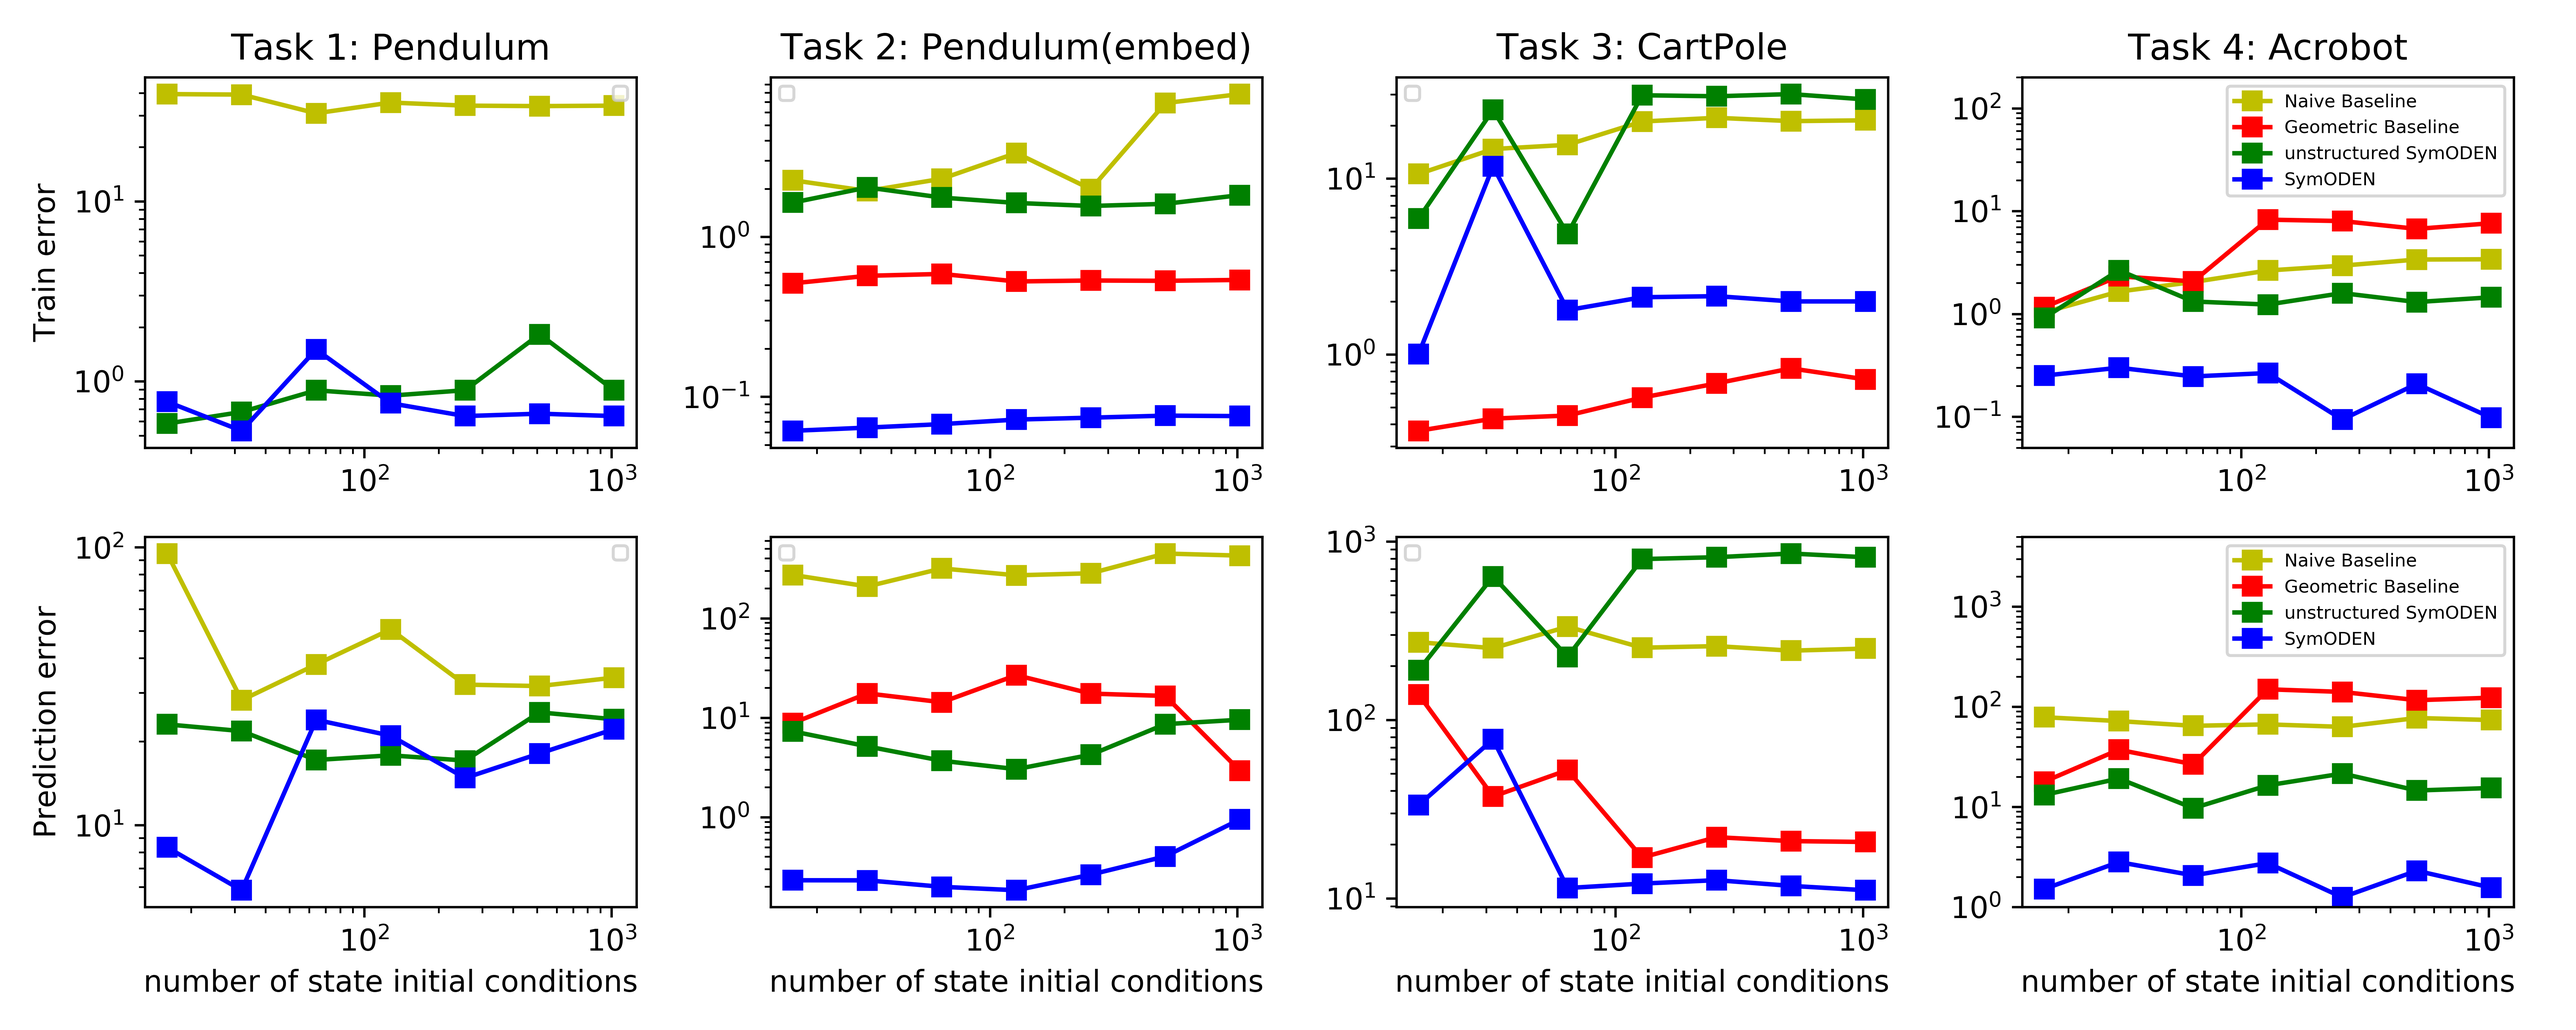
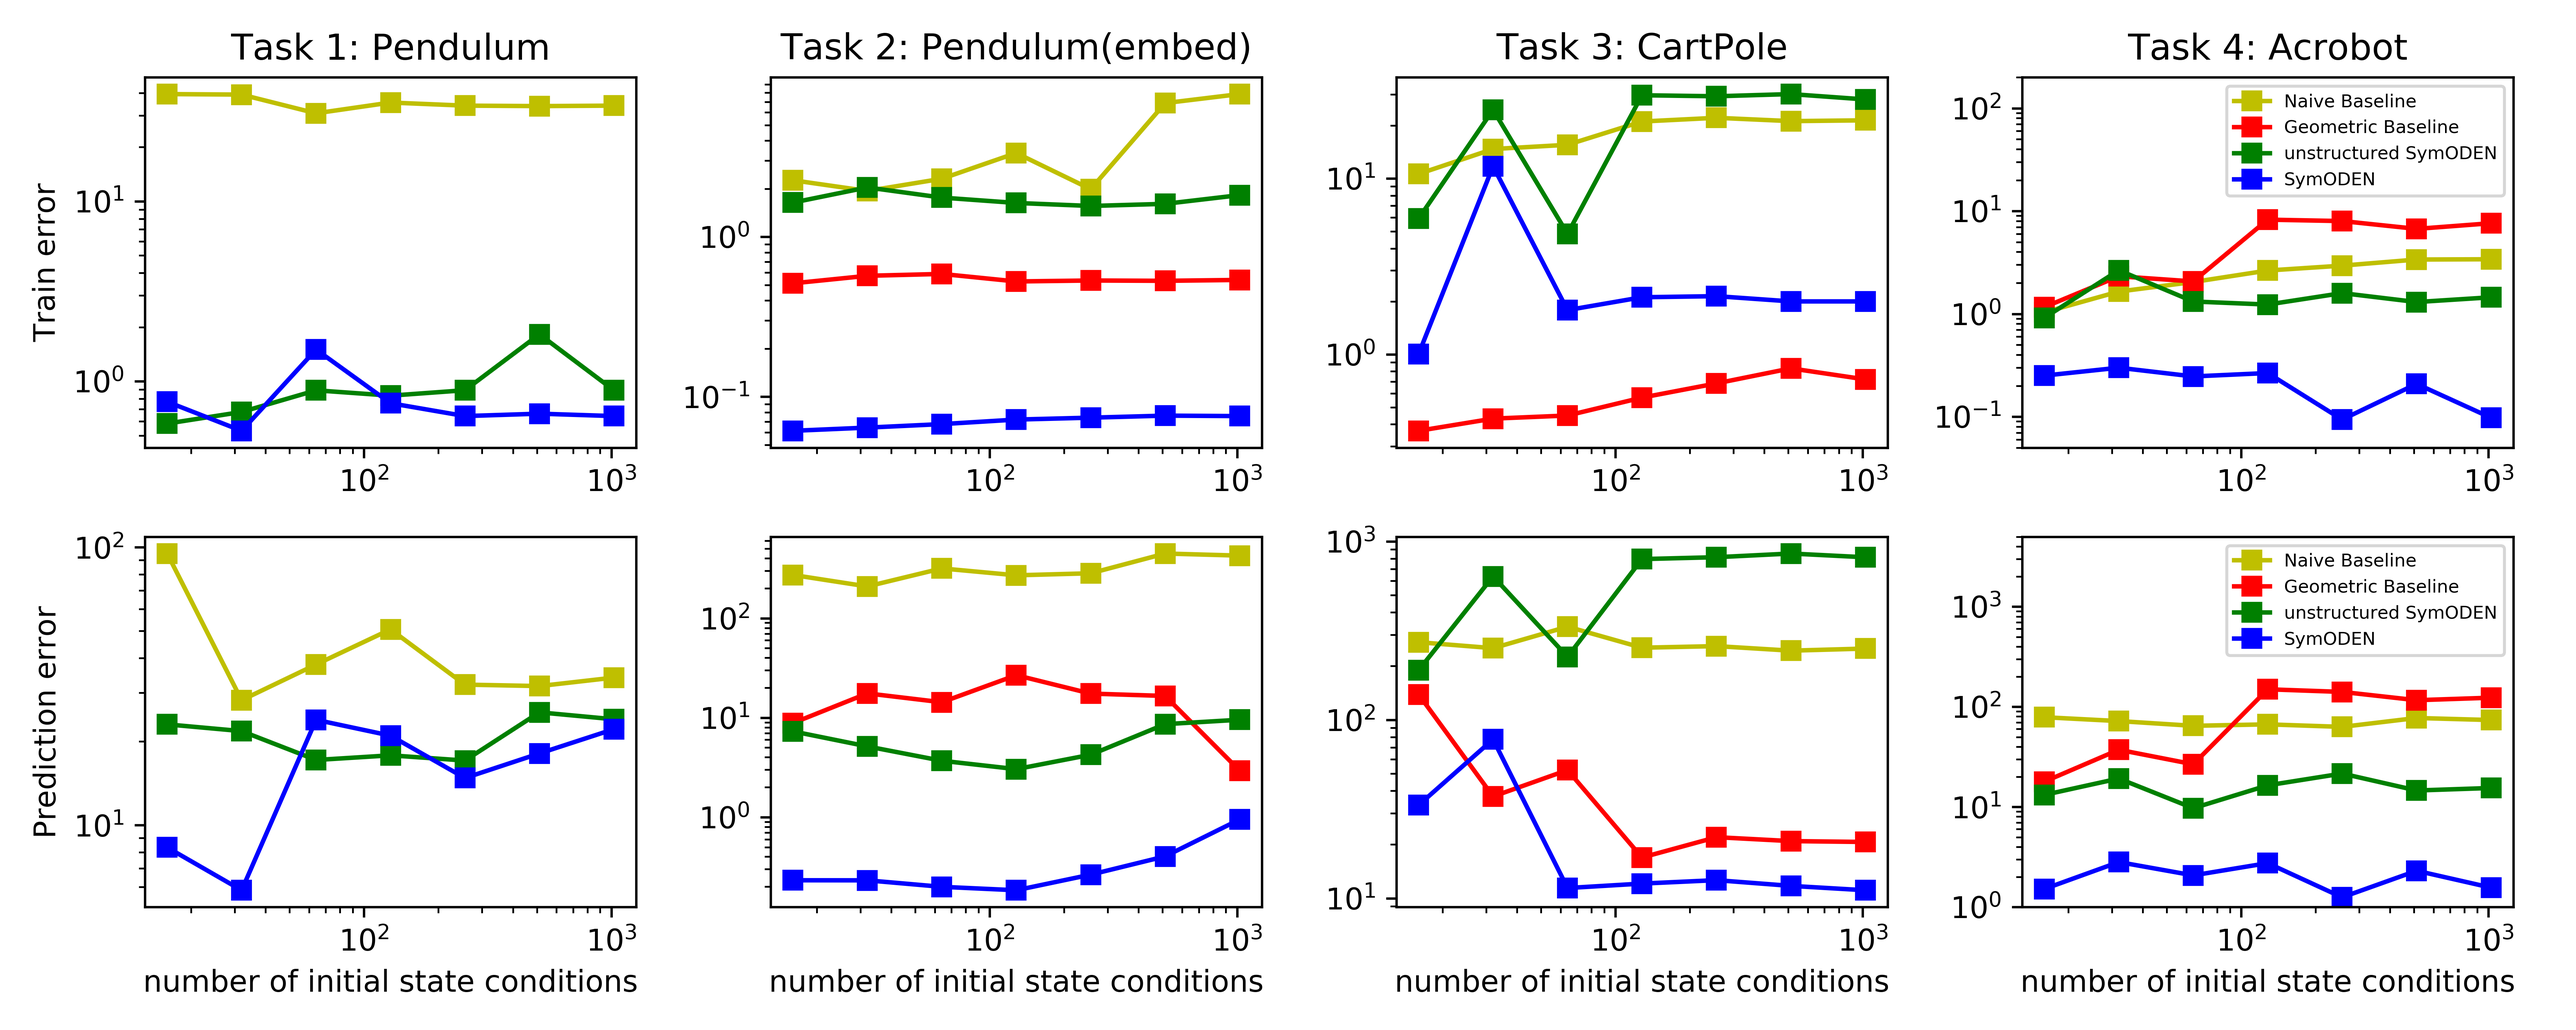
fix typos and add videos for acrobot-fa and cartpole-fa, add ablation study plot

diff --git a/analyze-train-pred-loss.py b/analyze-train-pred-loss.py
@@ -18,7 +18,7 @@ import matplotlib.pyplot as plt
 
 #%%
 DPI = 600
-FORMAT = 'png'
+FORMAT = 'pdf'
 LINE_SEGMENTS = 10
 ARROW_SCALE = 40
 ARROW_WIDTH = 6e-3
@@ -85,7 +85,7 @@ plt.yscale('log')
 # plt.xlabel('number of state initial condition')
 plt.ylabel('Train error')
 plt.title('Task 1: Pendulum')
-plt.legend(fontsize=6)
+# plt.legend(fontsize=6)
 
 plt.subplot(2, 4, 5)
 plt.plot(x_axis, pred_force_base, 'ys-')
@@ -93,9 +93,9 @@ plt.plot(x_axis, pred_force_symoden, 'gs-')
 plt.plot(x_axis, pred_force_symoden_struct, 'bs-')
 plt.xscale('log')
 plt.yscale('log')
-plt.xlabel('number of state initial conditions')
+plt.xlabel('number of initial state conditions')
 plt.ylabel('Prediction error')
-plt.legend(fontsize=6)
+# plt.legend(fontsize=6)
 
 plt.subplot(2, 4, 2)
 plt.plot(x_axis, embed_naive, 'ys-')
@@ -107,7 +107,7 @@ plt.yscale('log')
 # plt.xlabel('number of training trajectories')
 # plt.ylabel('Train loss')
 plt.title('Task 2: Pendulum(embed)')
-plt.legend(fontsize=6)
+# plt.legend(fontsize=6)
 
 plt.subplot(2, 4, 6)
 plt.plot(x_axis, pred_embed_naive, 'ys-')
@@ -116,9 +116,9 @@ plt.plot(x_axis, pred_embed_symoden, 'gs-')
 plt.plot(x_axis, pred_embed_symoden_struct, 'bs-')
 plt.xscale('log')
 plt.yscale('log')
-plt.xlabel('number of state initial conditions')
+plt.xlabel('number of initial state conditions')
 # plt.ylabel('Prediction loss')
-plt.legend(fontsize=6)
+# plt.legend(fontsize=6)
 
 plt.subplot(2, 4, 3)
 plt.plot(x_axis, cart_naive, 'ys-')
@@ -130,7 +130,7 @@ plt.yscale('log')
 # plt.xlabel('number of training trajectories')
 # plt.ylabel('Train loss')
 plt.title('Task 3: CartPole')
-plt.legend(fontsize=6)
+# plt.legend(fontsize=6)
 
 plt.subplot(2, 4, 7)
 plt.plot(x_axis, pred_cart_naive, 'ys-')
@@ -139,14 +139,14 @@ plt.plot(x_axis, pred_cart_symoden, 'gs-')
 plt.plot(x_axis, pred_cart_symoden_struct, 'bs-')
 plt.xscale('log')
 plt.yscale('log')
-plt.xlabel('number of state initial conditions')
+plt.xlabel('number of initial state conditions')
 # plt.ylabel('Prediction loss')
-plt.legend(fontsize=6)
+# plt.legend(fontsize=6)
 
 plt.subplot(2, 4, 4)
 plt.plot(x_axis, double_naive, 'ys-', label='Naive Baseline')
 plt.plot(x_axis, double_base, 'rs-', label='Geometric Baseline')
-plt.plot(x_axis, double_symoden, 'gs-', label='unstructured SymODEN')
+plt.plot(x_axis, double_symoden, 'gs-', label='Unstructured SymODEN')
 plt.plot(x_axis, double_symoden_struct, 'bs-', label='SymODEN')
 plt.xscale('log')
 plt.yscale('log')
@@ -159,12 +159,12 @@ plt.legend(fontsize=6)
 plt.subplot(2, 4, 8)
 plt.plot(x_axis, pred_double_naive, 'ys-', label='Naive Baseline')
 plt.plot(x_axis, pred_double_base, 'rs-', label='Geometric Baseline')
-plt.plot(x_axis, pred_double_symoden, 'gs-', label='unstructured SymODEN')
+plt.plot(x_axis, pred_double_symoden, 'gs-', label='Unstructured SymODEN')
 plt.plot(x_axis, pred_double_symoden_struct, 'bs-', label='SymODEN')
 plt.xscale('log')
 plt.yscale('log')
 plt.ylim([1, 5000])
-plt.xlabel('number of state initial conditions')
+plt.xlabel('number of initial state conditions')
 # plt.ylabel('Prediction loss')
 plt.legend(fontsize=6)
 

diff --git a/analyze-ablation-hnn.py b/analyze-ablation-hnn.py
@@ -30,7 +30,7 @@ device = torch.device('cuda:' + str(args.gpu) if torch.cuda.is_available() else 
 
 #%%
 DPI = 600
-FORMAT = 'png'
+FORMAT = 'pdf'
 LINE_SEGMENTS = 10
 ARROW_SCALE = 40
 ARROW_WIDTH = 6e-3
@@ -280,7 +280,7 @@ plt.plot(t_eval, ((true_x[:,0:2]-hnn_rad_x)**2).mean(-1), 'c--', linewidth=2)
 plt.ylim(-0.5, 10)
 plt.xlabel('t')
 # plt.ylabel('MSE')
-plt.title('MSE w/ HNN training data')
+plt.title('MSE w/ annulus training data')
 
 plt.subplot(1, 4, 2)
 plt.plot(t_eval, E_true, 'k', label='Ground Truth', linewidth=2)
@@ -288,7 +288,7 @@ plt.plot(t_eval, E_symoden_rad, 'b', label='Unstructured SymODEN', linewidth=2)
 plt.plot(t_eval, E_hnn_rad, 'c--', label='HNN', linewidth=2)
 plt.ylim(0, 9)
 plt.xlabel('t')
-plt.title('Total Energy w/ HNN training data')
+plt.title('Total Energy w/ annulus training data')
 plt.legend(fontsize=10)
 
 
@@ -298,7 +298,7 @@ plt.plot(t_eval, ((true_x[:,0:2]-hnn_x)**2).mean(-1), 'c--', linewidth=2)
 plt.ylim(-0.5, 10)
 plt.xlabel('t')
 # plt.ylabel('MSE')
-plt.title('MSE w/ uniform training data')
+plt.title('MSE w/ rectangle training data')
 
 plt.subplot(1, 4, 4)
 plt.plot(t_eval, E_true, 'k', label='Ground Truth', linewidth=2)
@@ -306,7 +306,7 @@ plt.plot(t_eval, E_symoden, 'b', label='Unstructured SymODEN', linewidth=2)
 plt.plot(t_eval, E_hnn, 'c--', label='HNN', linewidth=2)
 plt.ylim(0, 9)
 plt.xlabel('t')
-plt.title('Total Energy w/ uniform training data')
+plt.title('Total Energy w/ rectangle training data')
 
 plt.tight_layout()
 # fig.savefig('{}/fig-ablation-hnn.{}'.format(args.fig_dir, FORMAT))
